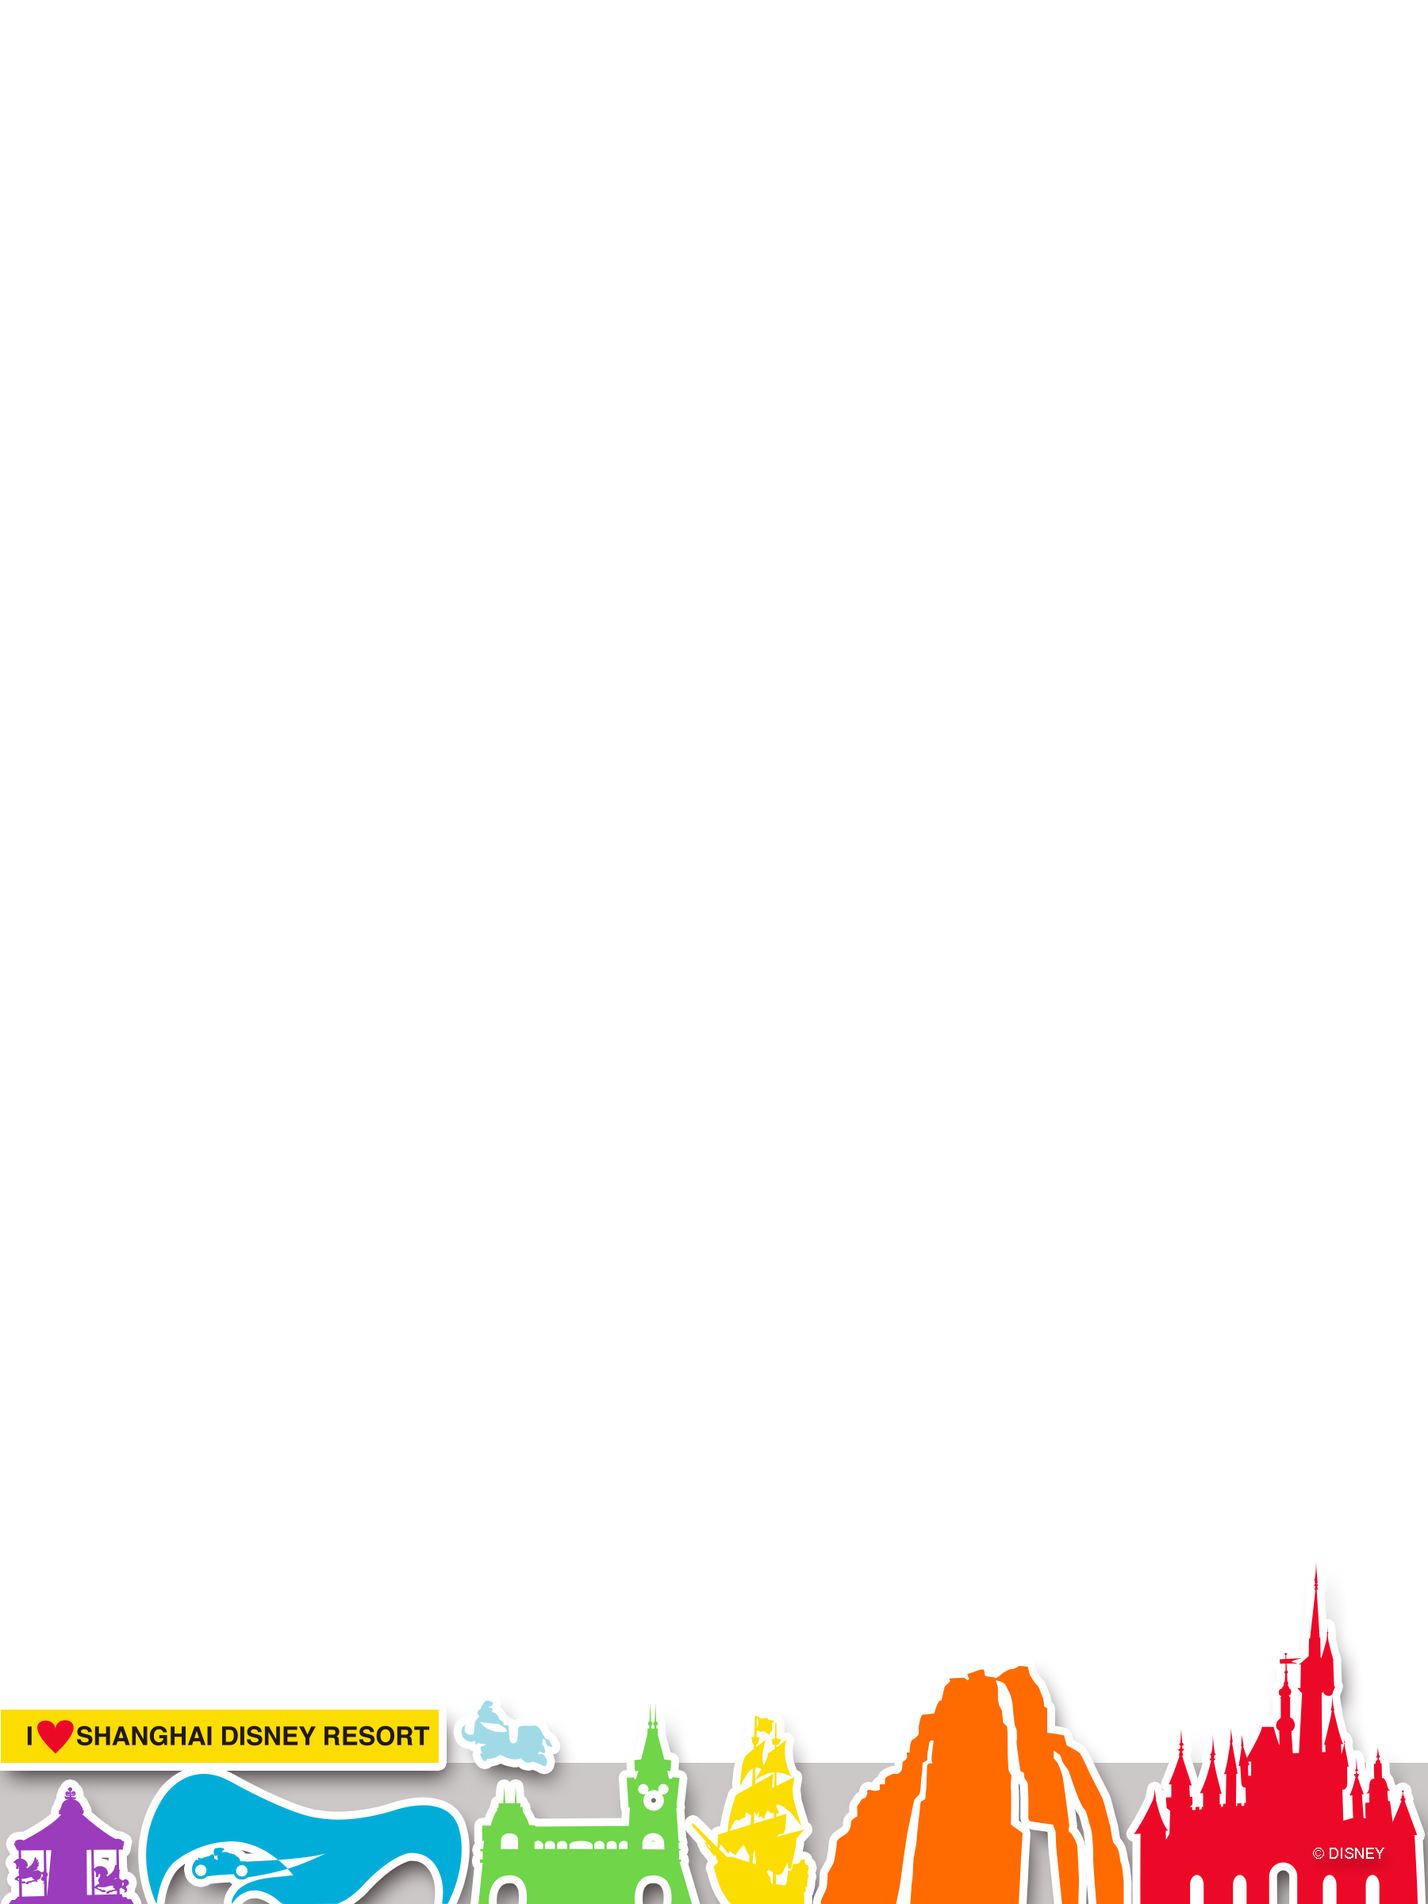
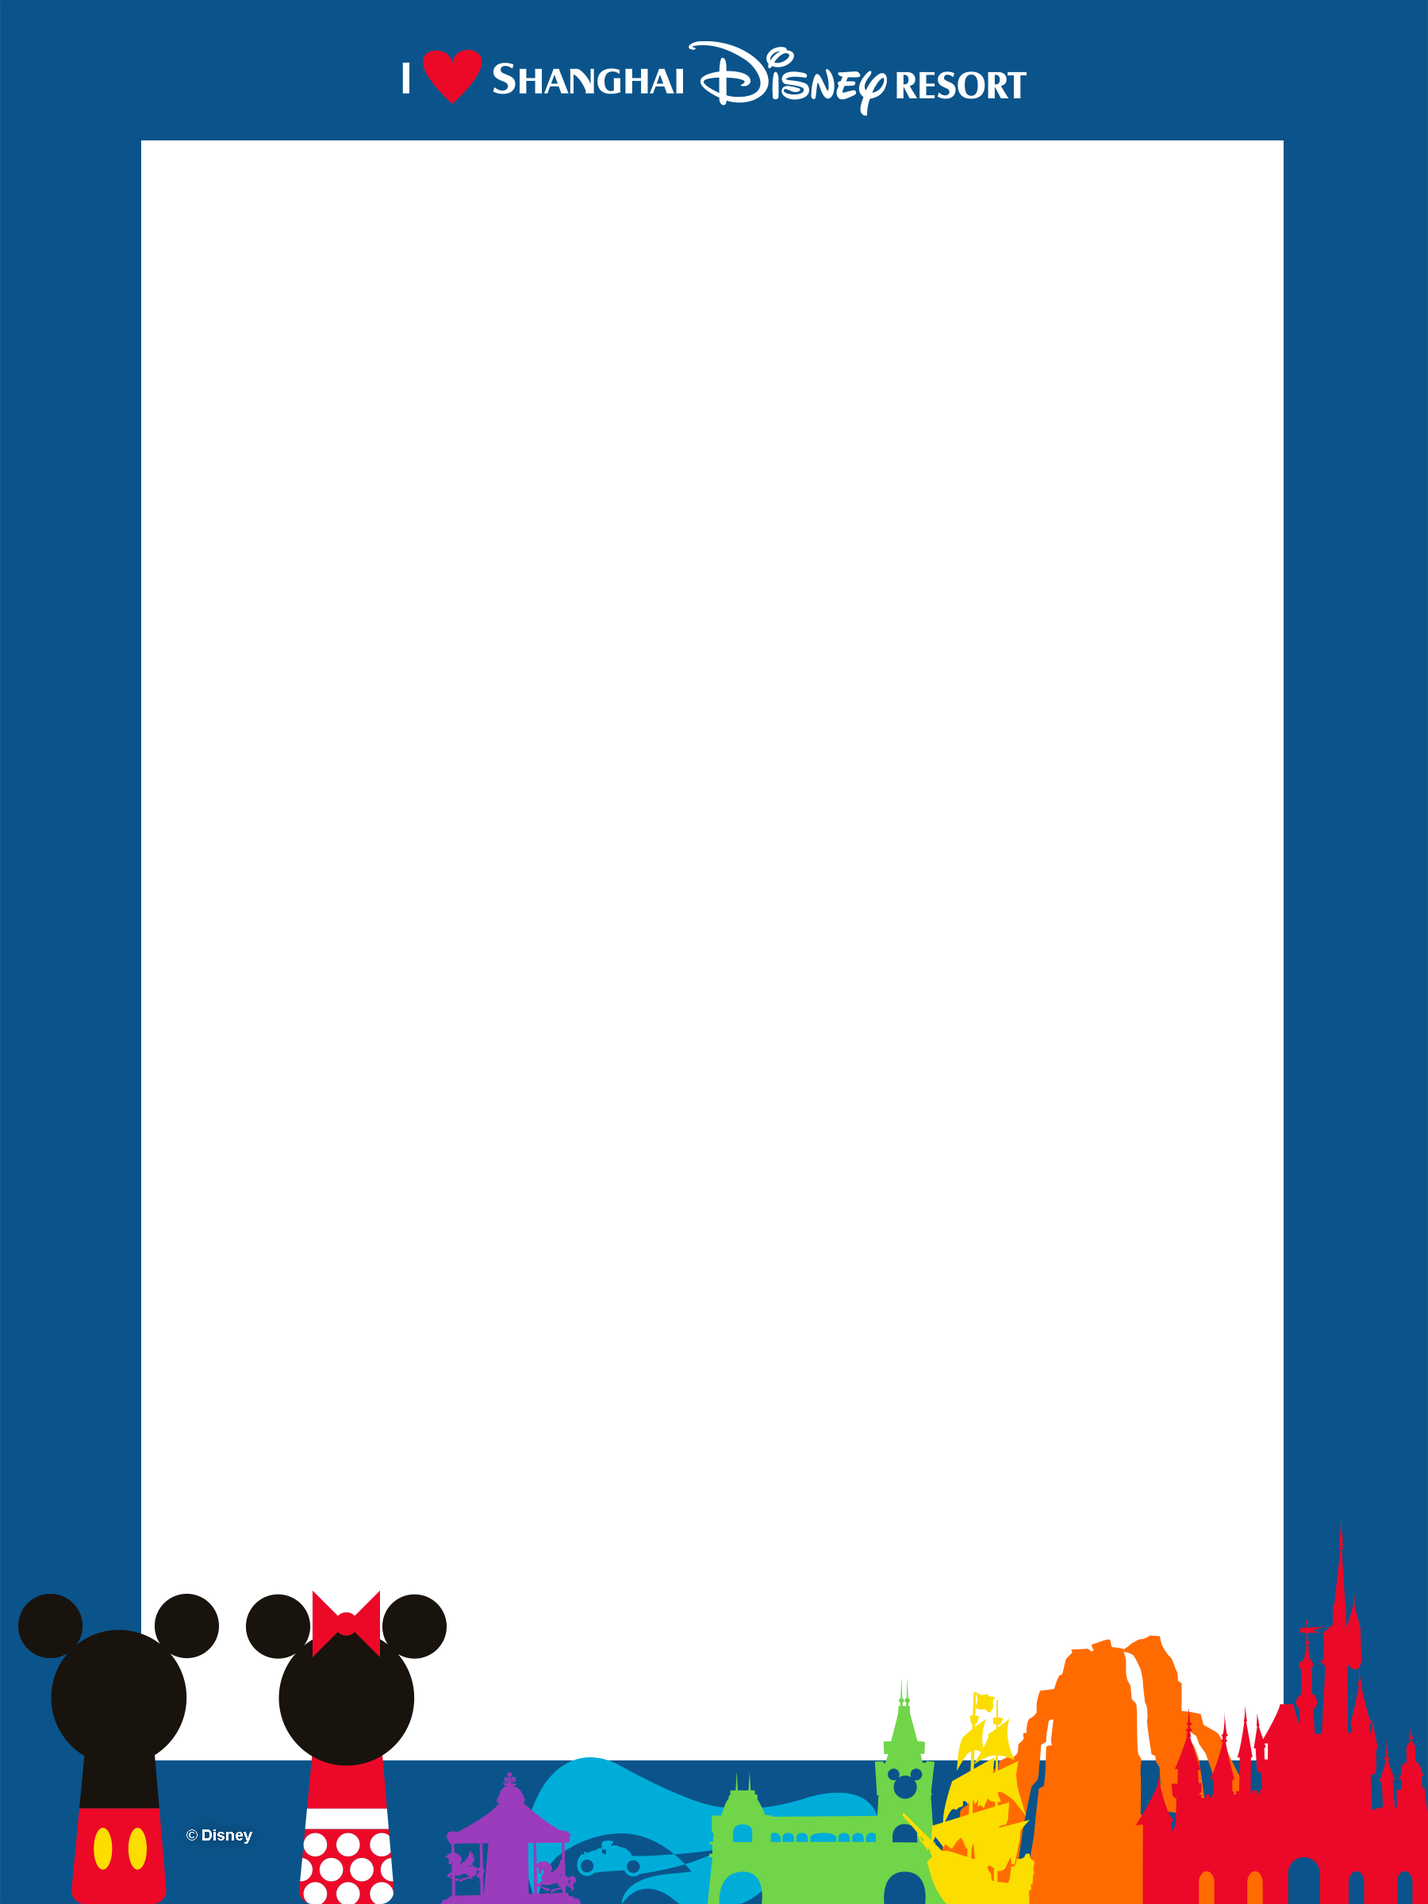
1.修改边框贴纸素材 2.修改登录注册弹框流程 3.修改字段和UI

diff --git a/app/src/main/java/com/pictureair/photopass/activity/RegisterOrForgetActivity.java b/app/src/main/java/com/pictureair/photopass/activity/RegisterOrForgetActivity.java
@@ -210,10 +210,12 @@ public class RegisterOrForgetActivity extends BaseActivity implements RegisterOr
 
     @Override
     public void showDialog() {
-        if (null == customProgressDialog)
-            customProgressDialog = CustomProgressDialog.show(context, getString(R.string.connecting), false, null);
-        else
+        if (null == customProgressDialog) {
+            customProgressDialog = CustomProgressDialog.create(context, getString(R.string.connecting), false, null);
+        }
+        if (!customProgressDialog.isShowing()) {
             customProgressDialog.show();
+        }
     }
 
     @Override
@@ -236,8 +238,12 @@ public class RegisterOrForgetActivity extends BaseActivity implements RegisterOr
     public void countDown(int time) {
         if (time == 0) {
             countDownFinish = true;
-            btn_next.setText(cn.smssdk.R.string.smssdk_send_code2);// 再次发送验证码
-            btn_next.setEnabled(true);
+            btn_next.setText(R.string.smssdk_send_verification_code);// 再次发送验证码
+            if (phoneStr.length() > 0) {
+                btn_next.setEnabled(true);
+            } else {
+                btn_next.setEnabled(false);
+            }
         } else {
 //            PictureAirLog.out("------>倒计时");
             countDownFinish = false;
@@ -300,10 +306,6 @@ public class RegisterOrForgetActivity extends BaseActivity implements RegisterOr
                 break;
             case R.id.sure:
                 if (!isNext) {//SIGN
-                    if (!isAgree) {
-                        myToast.setTextAndShow(R.string.please_agree, Common.TOAST_SHORT_TIME);
-                        return;
-                    }
                     submitEvent();
                 } else {
                     if (!checkPwd())
@@ -337,12 +339,22 @@ public class RegisterOrForgetActivity extends BaseActivity implements RegisterOr
      * 提交
      */
     private void submitEvent() {
-        if (whatActivity.equals(signActivity))
-            if (!checkPwd())
+        if (whatActivity.equals(signActivity)) {
+            if (!checkPhoneNumber()) {
+                myToast.setTextAndShow(R.string.smssdk_write_right_mobile_phone, Common.TOAST_SHORT_TIME);
                 return;
-        if (!checkPhoneNumber()) {
-            myToast.setTextAndShow(R.string.smssdk_write_right_mobile_phone, Common.TOAST_SHORT_TIME);
-            return;
+            }
+            if (!checkPwd()) {
+                return;
+            } else if (!isAgree) {
+                myToast.setTextAndShow(R.string.please_agree, Common.TOAST_SHORT_TIME);
+                return;
+            }
+        } else {
+            if (!checkPhoneNumber()) {
+                myToast.setTextAndShow(R.string.smssdk_write_right_mobile_phone, Common.TOAST_SHORT_TIME);
+                return;
+            }
         }
         registerTool.submit(identifyStr, currentCode + phoneStr, pwdStr);
     }
@@ -351,25 +363,26 @@ public class RegisterOrForgetActivity extends BaseActivity implements RegisterOr
      * 检查密码
      */
     public boolean checkPwd() {
-        if (pwdStr.isEmpty() || pwdAgainStr.isEmpty()) {
+        //判断密码，必须按照这个顺序
+        if (pwdStr.isEmpty()) {
             // 密码为空
             myToast.setTextAndShow(cn.smssdk.R.string.smssdk_modify_password_empty_hint, 100);
             return false;
-        } else if (pwdStr.length() < 6 || pwdAgainStr.length() < 6) {
+        } else if (!pwdStr.isEmpty() && pwdStr.trim().isEmpty()) {
+            // 密码全部为空格
+            myToast.setTextAndShow(cn.smssdk.R.string.smssdk_pwd_no_all_space, 100);
+            return false;
+        } else if (pwdStr.trim().length() < pwdStr.length()) {
+            // 密码首尾有空格
+            myToast.setTextAndShow(cn.smssdk.R.string.smssdk_pwd_head_or_foot_space, 100);
+            return false;
+        } else if (pwdStr.length() < 6) {
             // 密码小于6位
             myToast.setTextAndShow(cn.smssdk.R.string.smssdk_notify_password_hint, 100);
             return false;
         } else if (!pwdStr.equals(pwdAgainStr)) {
             // 密码两次不一致
             myToast.setTextAndShow(cn.smssdk.R.string.smssdk_pw_is_inconsistency, 100);
-            return false;
-        } else if (!pwdStr.isEmpty() && pwdAgainStr.trim().isEmpty()) {
-            // 密码全部为空格
-            myToast.setTextAndShow(cn.smssdk.R.string.smssdk_pwd_no_all_space, 100);
-            return false;
-        } else if (pwdStr.trim().length() < pwdAgainStr.length()) {
-            // 密码首尾有空格
-            myToast.setTextAndShow(cn.smssdk.R.string.smssdk_pwd_head_or_foot_space, 100);
             return false;
         }
         return true;
@@ -382,8 +395,8 @@ public class RegisterOrForgetActivity extends BaseActivity implements RegisterOr
     @Override
     public void onTextChanged(CharSequence s, int start, int before, int count) {
         phoneStr = et_write_phone.getText().toString().trim();
-        pwdStr = pwd.getText().toString().trim();
-        pwdAgainStr = pwd_again.getText().toString().trim();
+        pwdStr = pwd.getText().toString();
+        pwdAgainStr = pwd_again.getText().toString();
         identifyStr = et_put_identify.getText().toString().trim();
         isSubmitAvailable();
         isSendCodeAvailable();
@@ -467,9 +480,10 @@ public class RegisterOrForgetActivity extends BaseActivity implements RegisterOr
         String dialogMsg = String.format(getString(R.string.smssdk_make_sure_mobile_detail), "+" + currentCode + " " + phoneStr);
         PictureAirLog.out("diamsg--->" + dialogMsg);
 
-        if (pictureWorksDialog == null) {
-            pictureWorksDialog = new PictureWorksDialog(context, null, dialogMsg, getResources().getString(R.string.cancel1), getResources().getString(R.string.ok), false, myHandler);
-        }
+        /**
+         * 每次弹框有可能手机号不同，dialog目前不支持多次改动数据，所以只能每次都重新new dialog
+         */
+        pictureWorksDialog = new PictureWorksDialog(context, null, dialogMsg, getResources().getString(R.string.cancel1), getResources().getString(R.string.ok), false, myHandler);
         pictureWorksDialog.show();
     }
 

diff --git a/app/src/main/java/com/pictureair/photopass/activity/SelectPhotoActivity.java b/app/src/main/java/com/pictureair/photopass/activity/SelectPhotoActivity.java
@@ -251,6 +251,14 @@ public class SelectPhotoActivity extends BaseActivity implements OnClickListener
         photoPassArrayList.addAll(transferPhotoItemInfoToPhotoInfo(isBuy));
         PictureAirLog.v(TAG, "pp photo size: " + photoPassArrayList.size());
 
+        PictureAirLog.out("photocount--->" + photocount);
+        if (isDisneyVideo) {
+            okButton.setText(String.format(getString(R.string.disney_video_edit_photo), 0, photocount));
+        } else {
+            okButton.setText(String.format(getString(R.string.hasselectedphoto), 0, photocount));
+        }
+
+        okButton.setEnabled(false);
         //判断是否有照片
         if (isBuy) {//disney video
             if (photoPassArrayList != null && photoPassArrayList.size() > 2) {
@@ -262,7 +270,6 @@ public class SelectPhotoActivity extends BaseActivity implements OnClickListener
             } else {
                 gridView.setVisibility(View.GONE);
                 llNullPhoto.setVisibility(View.VISIBLE);
-                okButton.setEnabled(false);
                 return;
             }
         } else {
@@ -276,7 +283,7 @@ public class SelectPhotoActivity extends BaseActivity implements OnClickListener
                     noPhotoTextView.setText(R.string.no_photo_update);
                     noPhotoImageView.setImageResource(R.drawable.no_photo_upgrade);
                 }
-                goneOkButton();
+//                goneOkButton();
                 return;
             }
         }
@@ -290,13 +297,8 @@ public class SelectPhotoActivity extends BaseActivity implements OnClickListener
             myApplication.setneedScanPhoto(false);
         }
         //获取可选图片总数
-        okButton.setVisibility(View.VISIBLE);
+//        okButton.setVisibility(View.VISIBLE);
 
-        if (isDisneyVideo) {
-            okButton.setText(String.format(getString(R.string.disney_video_edit_photo), 0, photocount));
-        } else {
-            okButton.setText(String.format(getString(R.string.hasselectedphoto), 0, photocount));
-        }
     }
 
     /**
@@ -308,10 +310,10 @@ public class SelectPhotoActivity extends BaseActivity implements OnClickListener
         llDisneyVideoFoot = (LinearLayout) findViewById(R.id.ll_disney_video_foot);
         llShopPhoto = (LinearLayout) findViewById(R.id.ll_shop_photo);
         tvBubble.setText(String.format(getString(R.string.disney_video_bubble), photocount));//更新最多选多少张
-        okButton.setVisibility(View.GONE);
+//        okButton.setVisibility(View.GONE);
         okButton = null;
         okButton = (TextView) findViewById(R.id.tv_select_photo_ok);
-        okButton.setVisibility(View.VISIBLE);
+//        okButton.setVisibility(View.VISIBLE);
         llDisneyVideoFoot.setVisibility(View.VISIBLE);
         llShopPhoto.setOnClickListener(this);
 
@@ -406,7 +408,7 @@ public class SelectPhotoActivity extends BaseActivity implements OnClickListener
      * 隐藏OkButton
      */
     private void goneOkButton() {
-        okButton.setVisibility(View.GONE);
+//        okButton.setVisibility(View.GONE);
         okButton.setEnabled(false);
     }
 

diff --git a/app/src/main/java/com/pictureair/photopass/activity/OtherLoginActivity.java b/app/src/main/java/com/pictureair/photopass/activity/OtherLoginActivity.java
@@ -145,6 +145,7 @@ public class OtherLoginActivity extends BaseActivity implements OnClickListener,
                                 Common.TOAST_SHORT_TIME);
                         break;
 
+                    case AppUtil.PWD_SHORT:// 小于6位
                     case AppUtil.PWD_AVAILABLE:// 密码可用
                         new SignAndLoginUtil(OtherLoginActivity.this, userName.getText().toString().trim(), password
                                 .getText().toString(), false, false, null, null, null, null, OtherLoginActivity.this);
@@ -155,11 +156,10 @@ public class OtherLoginActivity extends BaseActivity implements OnClickListener,
                                 Common.TOAST_SHORT_TIME);
                         break;
 
-                    case AppUtil.PWD_SHORT:// 小于6位
-                        myToast.setTextAndShow(R.string.notify_password_hint,
-                                Common.TOAST_SHORT_TIME);
-
-                        break;
+//                        myToast.setTextAndShow(R.string.notify_password_hint,
+//                                Common.TOAST_SHORT_TIME);
+//
+//                        break;
 
                     case AppUtil.PWD_HEAD_OR_FOOT_IS_SPACE:// 密码首尾不能为空格
                         myToast.setTextAndShow(R.string.pwd_head_or_foot_space,

diff --git a/app/src/main/java/com/pictureair/photopass/activity/LoginActivity.java b/app/src/main/java/com/pictureair/photopass/activity/LoginActivity.java
@@ -289,6 +289,7 @@ public class LoginActivity extends BaseActivity implements OnClickListener, Sign
                                 Common.TOAST_SHORT_TIME);
                         break;
 
+                    case AppUtil.PWD_SHORT:// 小于6位
                     case AppUtil.PWD_AVAILABLE:// 密码可用
                         new SignAndLoginUtil(LoginActivity.this, countryCode + userName.getText().toString().trim(),
                                 password.getText().toString(), false, false, null, null, null, null, this);// 登录
@@ -304,11 +305,10 @@ public class LoginActivity extends BaseActivity implements OnClickListener, Sign
                         // Common.TOAST_SHORT_TIME);
                         break;
 
-                    case AppUtil.PWD_SHORT:// 小于6位
-                        myToast.setTextAndShow(R.string.notify_password_hint,
-                                Common.TOAST_SHORT_TIME);
-
-                        break;
+//                        myToast.setTextAndShow(R.string.notify_password_hint,
+//                                Common.TOAST_SHORT_TIME);
+//
+//                        break;
 
                     case AppUtil.PWD_HEAD_OR_FOOT_IS_SPACE:// 密码首尾不能为空格
                         myToast.setTextAndShow(R.string.pwd_head_or_foot_space,

diff --git a/app/src/main/java/com/pictureair/photopass/activity/OtherRegisterActivity.java b/app/src/main/java/com/pictureair/photopass/activity/OtherRegisterActivity.java
@@ -282,9 +282,6 @@ public class OtherRegisterActivity extends BaseActivity implements
                 } else if (!AppUtil.isEmail(email)) {
                     myToast.setTextAndShow(R.string.email_error,
                             Common.TOAST_SHORT_TIME);
-                } else if (name.isEmpty()) {
-                    myToast.setTextAndShow(R.string.name_is_empty,
-                            Common.TOAST_SHORT_TIME);
                 } else {
                     // 比较密码合法性
                     switch (AppUtil.checkPwd(pwd, pwd2)) {
@@ -294,7 +291,10 @@ public class OtherRegisterActivity extends BaseActivity implements
                             break;
 
                         case AppUtil.PWD_AVAILABLE:// 密码可用
-                            if (isAgree) {
+                            if (name.isEmpty()) {
+                                myToast.setTextAndShow(R.string.name_is_empty,
+                                        Common.TOAST_SHORT_TIME);
+                            } else if (isAgree) {
                                 new SignAndLoginUtil(OtherRegisterActivity.this, email, pwd, true, true,
                                     name, birthday, sex, countryCode, OtherRegisterActivity.this);
                             } else {

diff --git a/app/src/main/java/com/pictureair/photopass/adapter/EditActivityAdapter.java b/app/src/main/java/com/pictureair/photopass/adapter/EditActivityAdapter.java
@@ -156,6 +156,12 @@ public class EditActivityAdapter extends BaseAdapter {
             layoutParams.height = ScreenUtil.dip2px(mContext, 60);
             layoutParams.width = ScreenUtil.dip2px(mContext, 60);
             holderView.itemRelativeLayout.setLayoutParams(layoutParams);
+
+            LayoutParams layoutParams1 = holderView.editImageview.getLayoutParams();
+            layoutParams1.width = ScreenUtil.dip2px(mContext, 50);
+            layoutParams1.height = ScreenUtil.dip2px(mContext, 50);
+            holderView.editImageview.setLayoutParams(layoutParams1);
+
             if (frameInfos.get(position).onLine == 1) {//网络图片
 
                 ImageLoader.getInstance().displayImage(Common.PHOTO_URL + frameInfos.get(position).frameOriginalPathPortrait, holderView.editImageview, options);
@@ -163,7 +169,7 @@ public class EditActivityAdapter extends BaseAdapter {
 
                 ImageLoader.getInstance().displayImage(frameInfos.get(position).frameOriginalPathPortrait, holderView.editImageview, options);
             }
-            holderView.editImageview.setBackgroundResource(R.drawable.decoration_bg);
+            holderView.itemRelativeLayout.setBackgroundResource(R.drawable.decoration_bg);
 
         }
 

diff --git a/app/src/main/java/com/pictureair/photopass/util/AppUtil.java b/app/src/main/java/com/pictureair/photopass/util/AppUtil.java
@@ -760,23 +760,23 @@ public class AppUtil {
     }
 
     /**
-     * 验证密码是否可用
+     * 验证密码是否可用,必须按照此顺序
      *
      * @param pwd1 第一次输入的密码
      * @param pwd2 第二次输入的密码
      * @return
      */
     public static final int checkPwd(String pwd1, String pwd2) {
-        if (pwd1.isEmpty() || pwd2.isEmpty()) {// 密码为空
+        if (pwd1.isEmpty()) {// 密码为空
             return PWD_EMPTY;
-        } else if (pwd1.length() < 6 || pwd2.length() < 6) {// 密码小于6位
-            return PWD_SHORT;
-        } else if (!pwd1.equals(pwd2)) {// 密码两次不一致
-            return PWD_INCONSISTENCY;
         } else if (!pwd1.isEmpty() && pwd1.trim().isEmpty()) {// 密码全部为空格
             return PWD_ALL_SAPCE;
         } else if (pwd1.trim().length() < pwd1.length()) {// 密码首尾有空格
             return PWD_HEAD_OR_FOOT_IS_SPACE;
+        } else if (pwd1.length() < 6) {// 密码小于6位
+            return PWD_SHORT;
+        } else if (!pwd1.equals(pwd2)) {// 密码两次不一致
+            return PWD_INCONSISTENCY;
         } else {// 密码可用
             return PWD_AVAILABLE;
         }

diff --git a/app/src/main/java/com/pictureair/photopass/activity/EditPhotoActivity.java b/app/src/main/java/com/pictureair/photopass/activity/EditPhotoActivity.java
@@ -440,12 +440,12 @@ public class EditPhotoActivity extends BaseActivity implements OnClickListener, 
 		frameInfo.frameOriginalPathPortrait = Scheme.ASSETS.wrap("frame/frame_v_4.png");
 		frameInfos.add(frameInfo);
 
-		frameInfo = new FrameOrStikerInfo();
-		frameInfo.frameThumbnailPathH160 = Scheme.ASSETS.wrap("frame/frame_h_5t.png");
-		frameInfo.frameThumbnailPathV160 = Scheme.ASSETS.wrap("frame/frame_v_5t.png");
-		frameInfo.frameOriginalPathLandscape = Scheme.ASSETS.wrap("frame/frame_h_5.png");
-		frameInfo.frameOriginalPathPortrait = Scheme.ASSETS.wrap("frame/frame_v_5.png");
-		frameInfos.add(frameInfo);
+//		frameInfo = new FrameOrStikerInfo();
+//		frameInfo.frameThumbnailPathH160 = Scheme.ASSETS.wrap("frame/frame_h_5t.png");
+//		frameInfo.frameThumbnailPathV160 = Scheme.ASSETS.wrap("frame/frame_v_5t.png");
+//		frameInfo.frameOriginalPathLandscape = Scheme.ASSETS.wrap("frame/frame_h_5.png");
+//		frameInfo.frameOriginalPathPortrait = Scheme.ASSETS.wrap("frame/frame_v_5.png");
+//		frameInfos.add(frameInfo);
 
 
 		addStickerImages(STICKERPATH); //获取资源文件的  饰品   加载饰品资源
